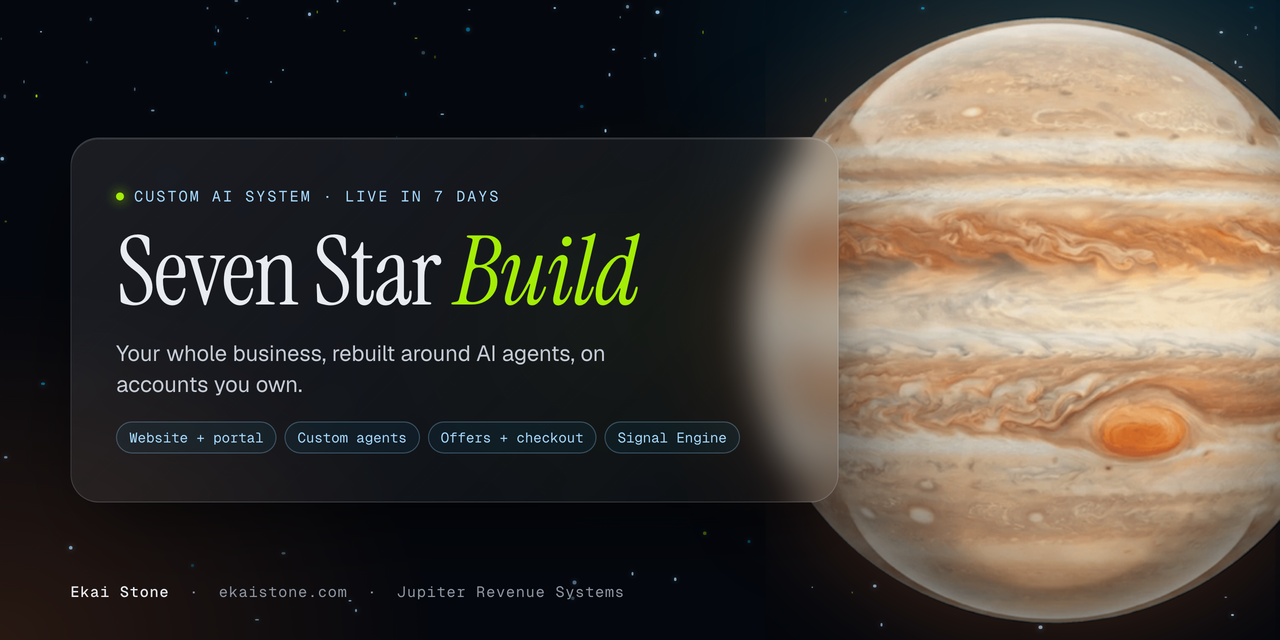
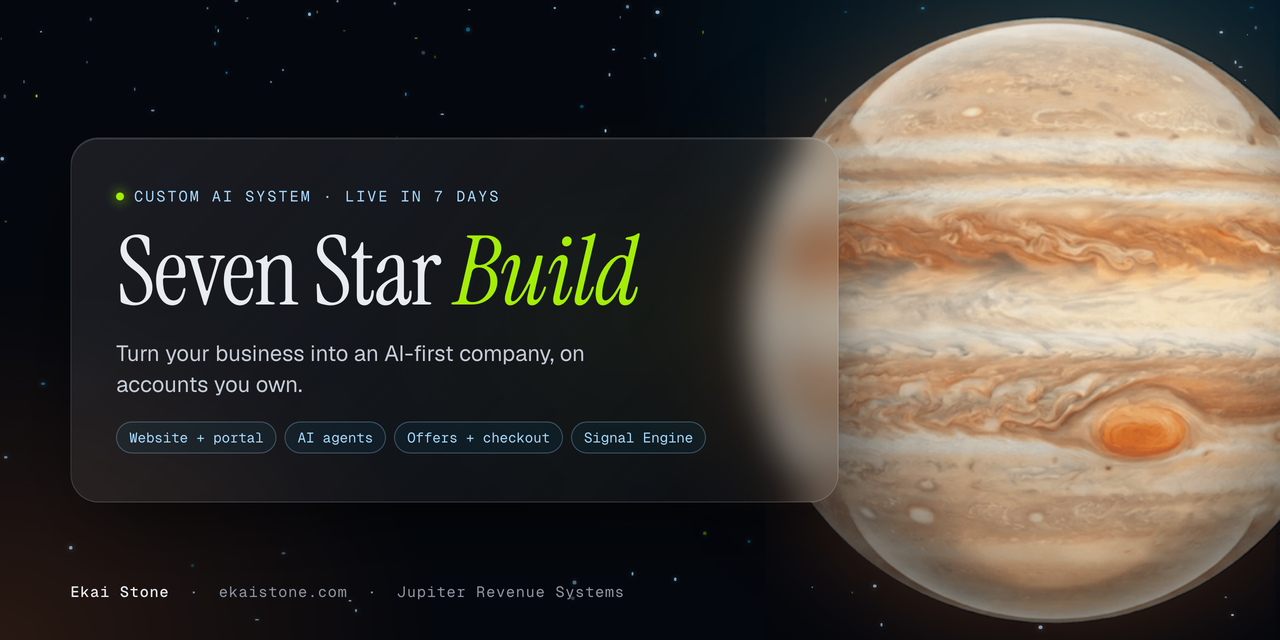
AI-first company positioning

Changed region(s): [[0.2188, 0.6562, 0.5625, 0.7188], [0.0938, 0.5312, 0.4688, 0.5625]]

diff --git a/README.md b/README.md
@@ -1,7 +1,7 @@
 <p align="center"><img src="assets/hero.jpg" alt="The Seven Star Build by Ekai Stone" width="100%"></p>
 
 <h1 align="center">The Seven Star Build</h1>
-<p align="center"><b>Your whole business, rebuilt around AI agents, on accounts you own.</b></p>
+<p align="center"><b>Turn your business into an AI-first company.</b></p>
 
 <p align="center">
   <a href="https://ekaistone.com/seven-star/build"><img src="https://img.shields.io/badge/See_the_Build-ekaistone.com-A4ED07?style=for-the-badge&labelColor=04070D" alt="See the Build"></a>
@@ -11,7 +11,7 @@
 
 ---
 
-A custom AI system, built by my AI agents for your business: your site, your client portal, agents that run your delivery, your offers and checkout, your email and CRM, your Meta ads with Signal Engine tracking, and the operations that keep it all running. Everything is installed on accounts you own. Live in 7 days.
+The Seven Star Build turns your business into an AI-first company. My AI agents build a custom system for your business: your site, your client portal, agents that run your delivery, your offers and checkout, your email and CRM, your Meta ads with Signal Engine tracking, and the operations that keep it all running. Everything is installed on accounts you own. Live in 7 days.
 
 ### Who it's for
 
